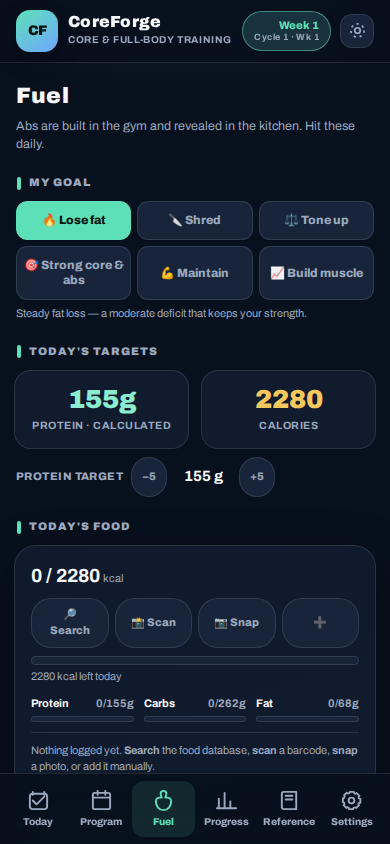
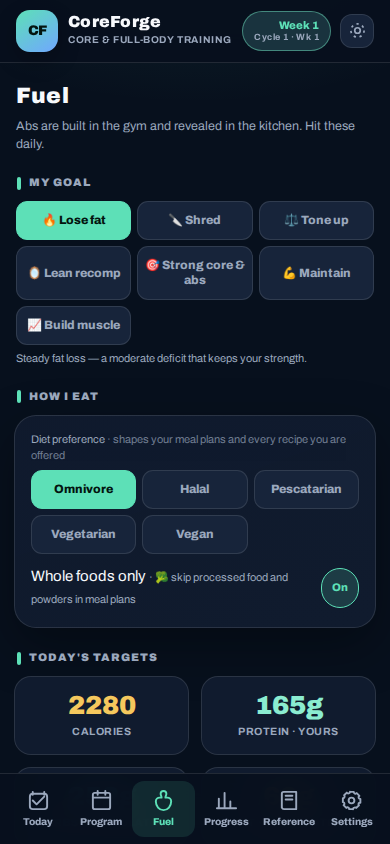
v475 — the store screenshots went stale in silence, 180 versions out of date (#457)
Found by asking what OTHER non-rendered surface makes a claim about the app —
the axis v474 opened. The three store screenshots were last regenerated at v294
and the app is at v474: 180 versions, across changes that moved whole blocks
between tabs.

Measured against the live app, all three showed screens that no longer exist:

  Fuel      6 goals, 2 target tiles, NO diet picker
            -> 7 goals (v363), 4 tiles (v288), a diet picker (v324)
  Progress  no sub-tab strip at all
            -> four panes, Summary / Body / Strength / Awards (v312)
  Today     the alternate-session tiles high up
            -> v314 moved them below the session

That is the most visible surface the app has, and no rendered-copy sweep can
see a PNG. Same lesson as v474 one file over: a sweep is only as wide as the
surface it enumerates.

TWO LABELS NO LONGER DESCRIBED THEIR OWN PICTURE, which is v473's rule on a
store listing. "Nutrition targets and food logging" over a frame with no food
log in it, and "Core score and transformation tracking" over a frame with
neither. Both now name what is in the frame. The Today label was measured and
left alone.

THE STAMP, BECAUSE A PIXEL COMPARISON IS THE WRONG TOOL. Fonts, timing and the
coach photo all move, so a pixel diff would go red on correct code. Each
screenshot carries a stamp of the STRUCTURE it shows — the goal list, whether a
diet picker is there, the sub-tab names, the stat labels — and the check
[…]

diff --git a/sw.js b/sw.js
@@ -10,7 +10,7 @@
    tiers are parsed by pulling every quoted asset name out of this file, comments
    included, so an illustrative path in a comment breaks CI by declaring
    an asset that does not exist. */
-const CACHE = 'coreforge-v474';
+const CACHE = 'coreforge-v475';
 /* Which caches on this origin belong to CoreForge. CacheStorage is shared by
    every app published from the same GitHub Pages origin, so cleanup must match
    on our own name and never enumerate-and-delete everything it finds. */

diff --git a/index.html b/index.html
@@ -2008,7 +2008,7 @@ const TEST_DEFAULTS={plank:30,side:20,hollow:20,lower:10,dyn:16,push:10,pull:6,s
 
 /* App build version — shown in Settings so you can confirm you're on the latest.
    Bump this in lockstep with the sw.js CACHE (coreforge-vNN) on every ship. */
-const APP_VERSION='474';
+const APP_VERSION='475';
 /* ============================ STATE ============================ */
 const STORE_KEY='coreforge.v1';
 // A one-step rollback for importData() — a raw, un-mirrored localStorage entry,

diff --git a/CLAUDE.md b/CLAUDE.md
@@ -18786,6 +18786,68 @@ Eleven mutants, all caught by name.
   file already records the trap for `pkill -f` and for `pgrep -f`. Kill by PID,
   and skip your own.
 
+## The store screenshots went stale in silence (v475)
+
+Found by asking what OTHER non-rendered surface makes a claim about the app —
+the axis v474 opened. The three store screenshots were last regenerated at
+**v294** and the app is at **v474**: 180 versions, across changes that moved
+whole blocks between tabs.
+
+Measured against the live app, all three showed screens that no longer exist:
+
+| screenshot | showed | the app now has |
+|---|---|---|
+| **Fuel** | 6 goals, 2 target tiles, **no diet picker** | **7** goals (v363), **4** tiles (v288), a diet picker (v324) |
+| **Progress** | **no sub-tab strip at all** | four panes — Summary / Body / Strength / Awards (v312) |
+| **Today** | the alternate-session tiles high up | v314 moved them **below** the session |
+
+That is the most visible surface the app has, and **no rendered-copy sweep can
+see a PNG.** Same lesson as v474 one file over: a sweep is only as wide as the
+surface it enumerates.
+
+**Two labels no longer described their own picture**, which is v473's rule on a
+store listing. *"Nutrition targets and food logging"* over a frame with no food
+log in it, and *"Core score and transformation tracking"* over a frame with
+neither. Both now name what is in the frame. The Today label was **measured**
+and left alone.
+
+### The stamp, because a pixel comparison is the wrong tool
+
+Fonts, timing and the coach photo all move, so a pixel diff would go red on
+correct code. Each screenshot carries a **stamp of the STRUCTURE it shows** —
+the goal list, whether a diet picker is there, the sub-tab names, the stat
+labels — and the check re-derives it from the running app. That is the
+`_planStamp` shape: a stamp of every input the generator read, rather than a
+writer remembering.
+
+**Red here means "regenerate the screenshots and re-stamp", not "the app is
+broken",** and the failure detail says so.
+
+**It runs in suite 09, not beside the file checks in suite 01.** A screenshot
+shows a seeded athlete and suite 01 drives the raw page on purpose — put there
+first, six checks failed on correct code because the live reading was of an
+un-onboarded app. The file facts (the PNG exists, its own IHDR matches the size
+the manifest declares, the label describes the frame) stay in suite 01, which
+needs no page at all.
+
+### Two escapes, and the second is the one worth keeping
+
+- **The stamp comparison loop emptied** walked through everything. The guard
+  asserted the live reading found the real screens and never that a comparison
+  RAN — so a loop over nothing satisfied every assertion.
+- **And the counter's expectation was DERIVED from the stamp file**, so deleting
+  fields from the stamp shrank both sides together and passed on less. **Pin the
+  VALUE, not the identity** — nine fields across three screenshots, written as a
+  literal. The mutant that deletes two stamp fields is caught by that and by
+  nothing else.
+
+**One mutant is uncatchable by construction and is recorded rather than papered
+over:** rewriting the guard into `t.eq(..., compared, compared)` is a tautology,
+and no check can check its own checks. That class — a self-comparing guard — is
+caught by READING, which is how v344's was found.
+
+Eight mutants, seven caught by name.
+
 ## Rendering
 
 **`renderToday()` has a `sess.pos.dayInWeek === 0` branch for the weekly
